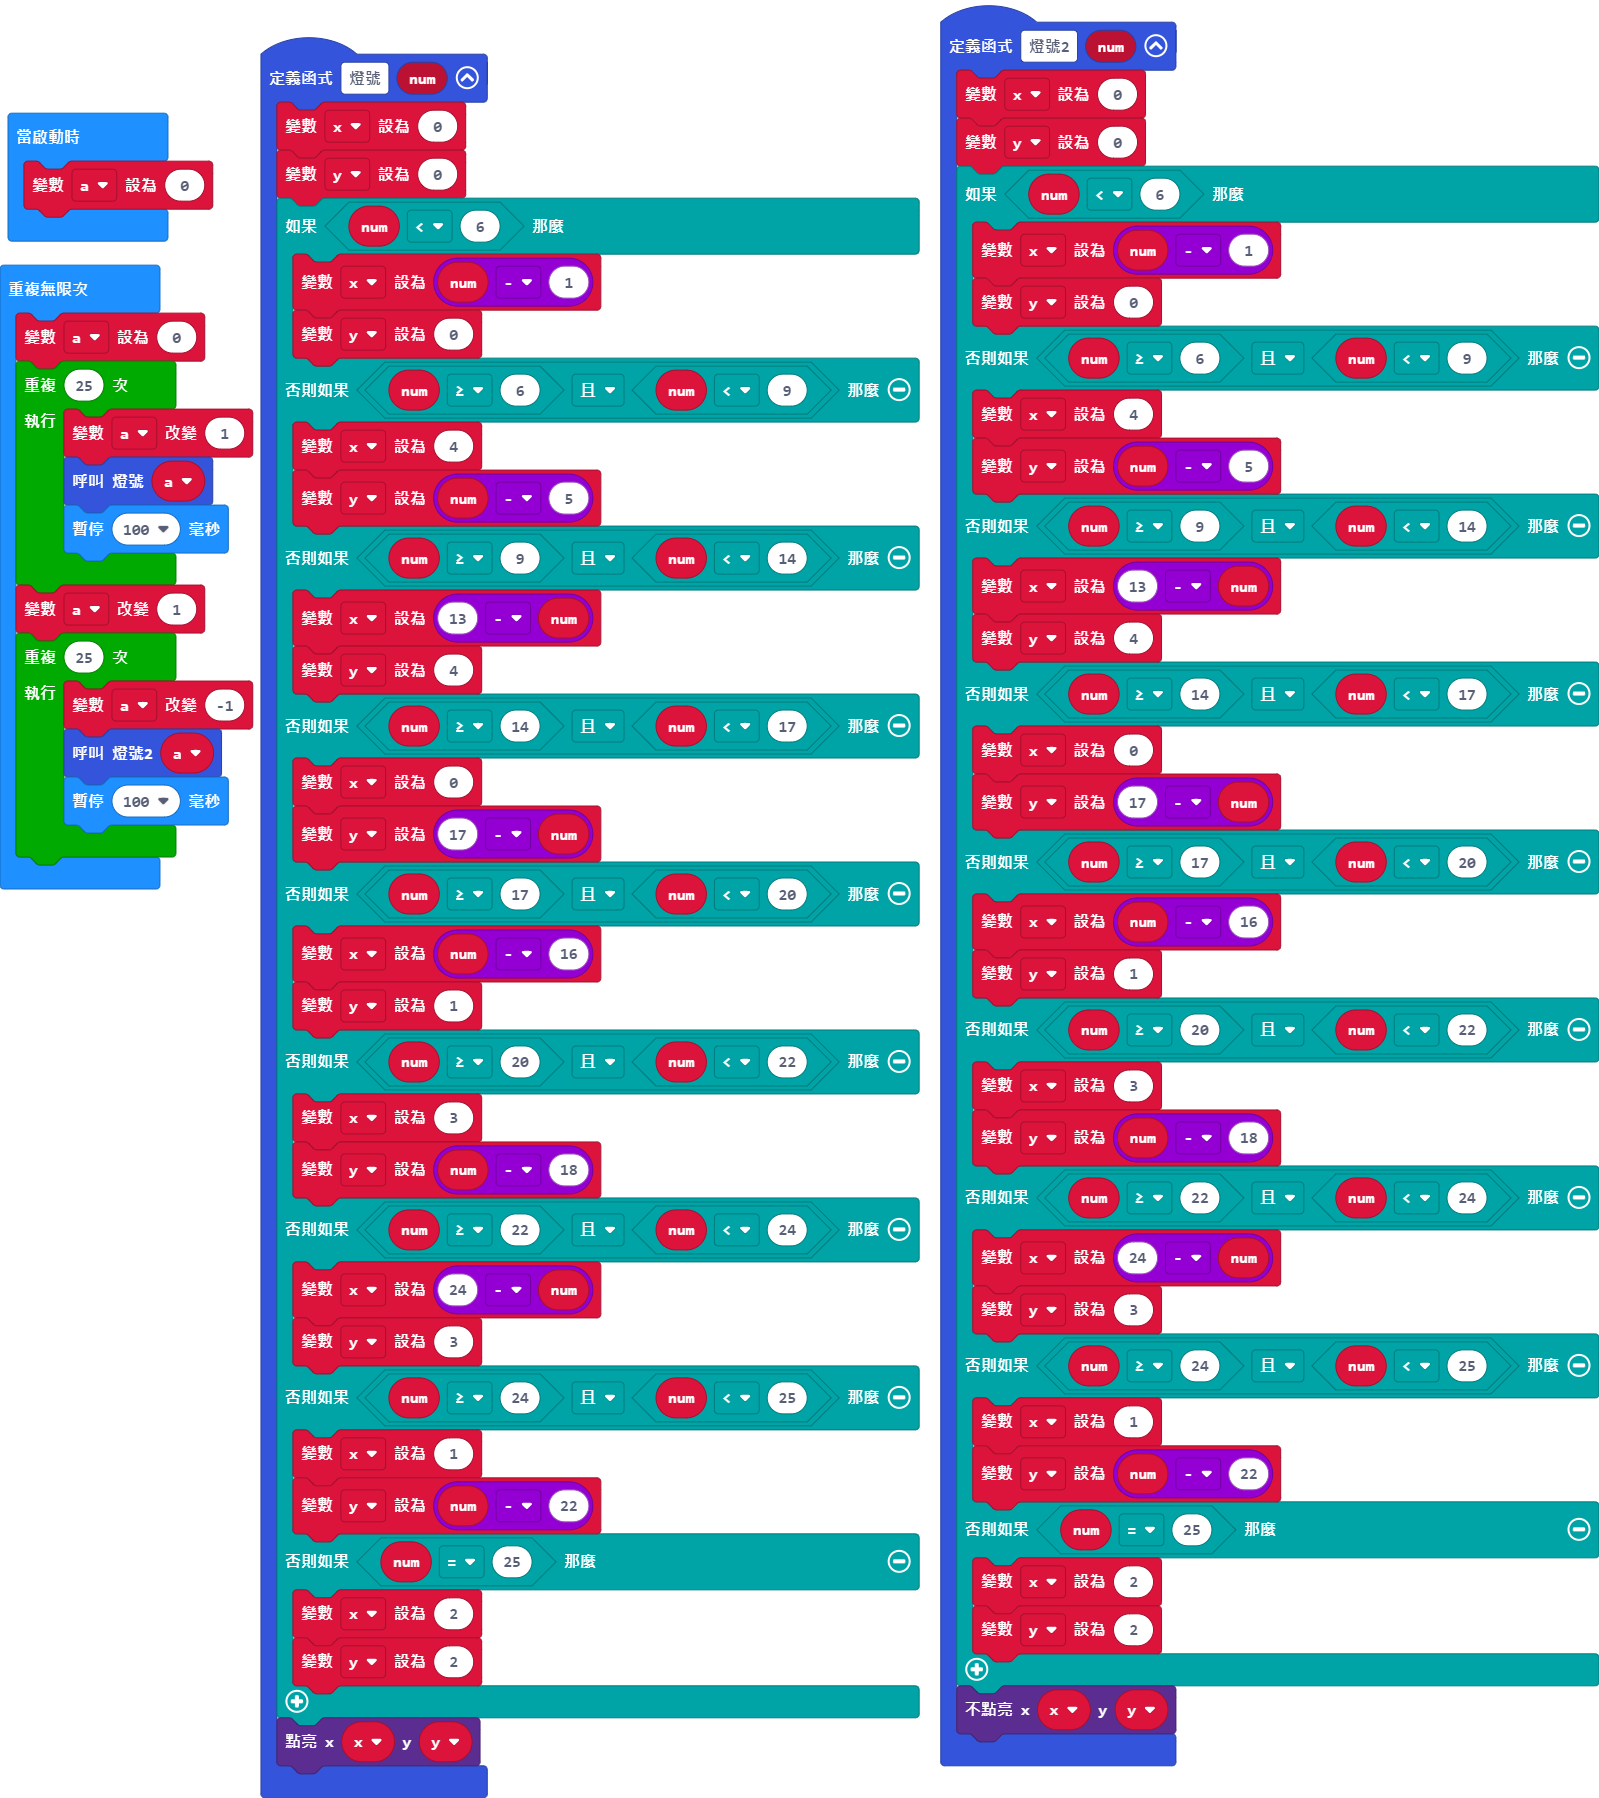
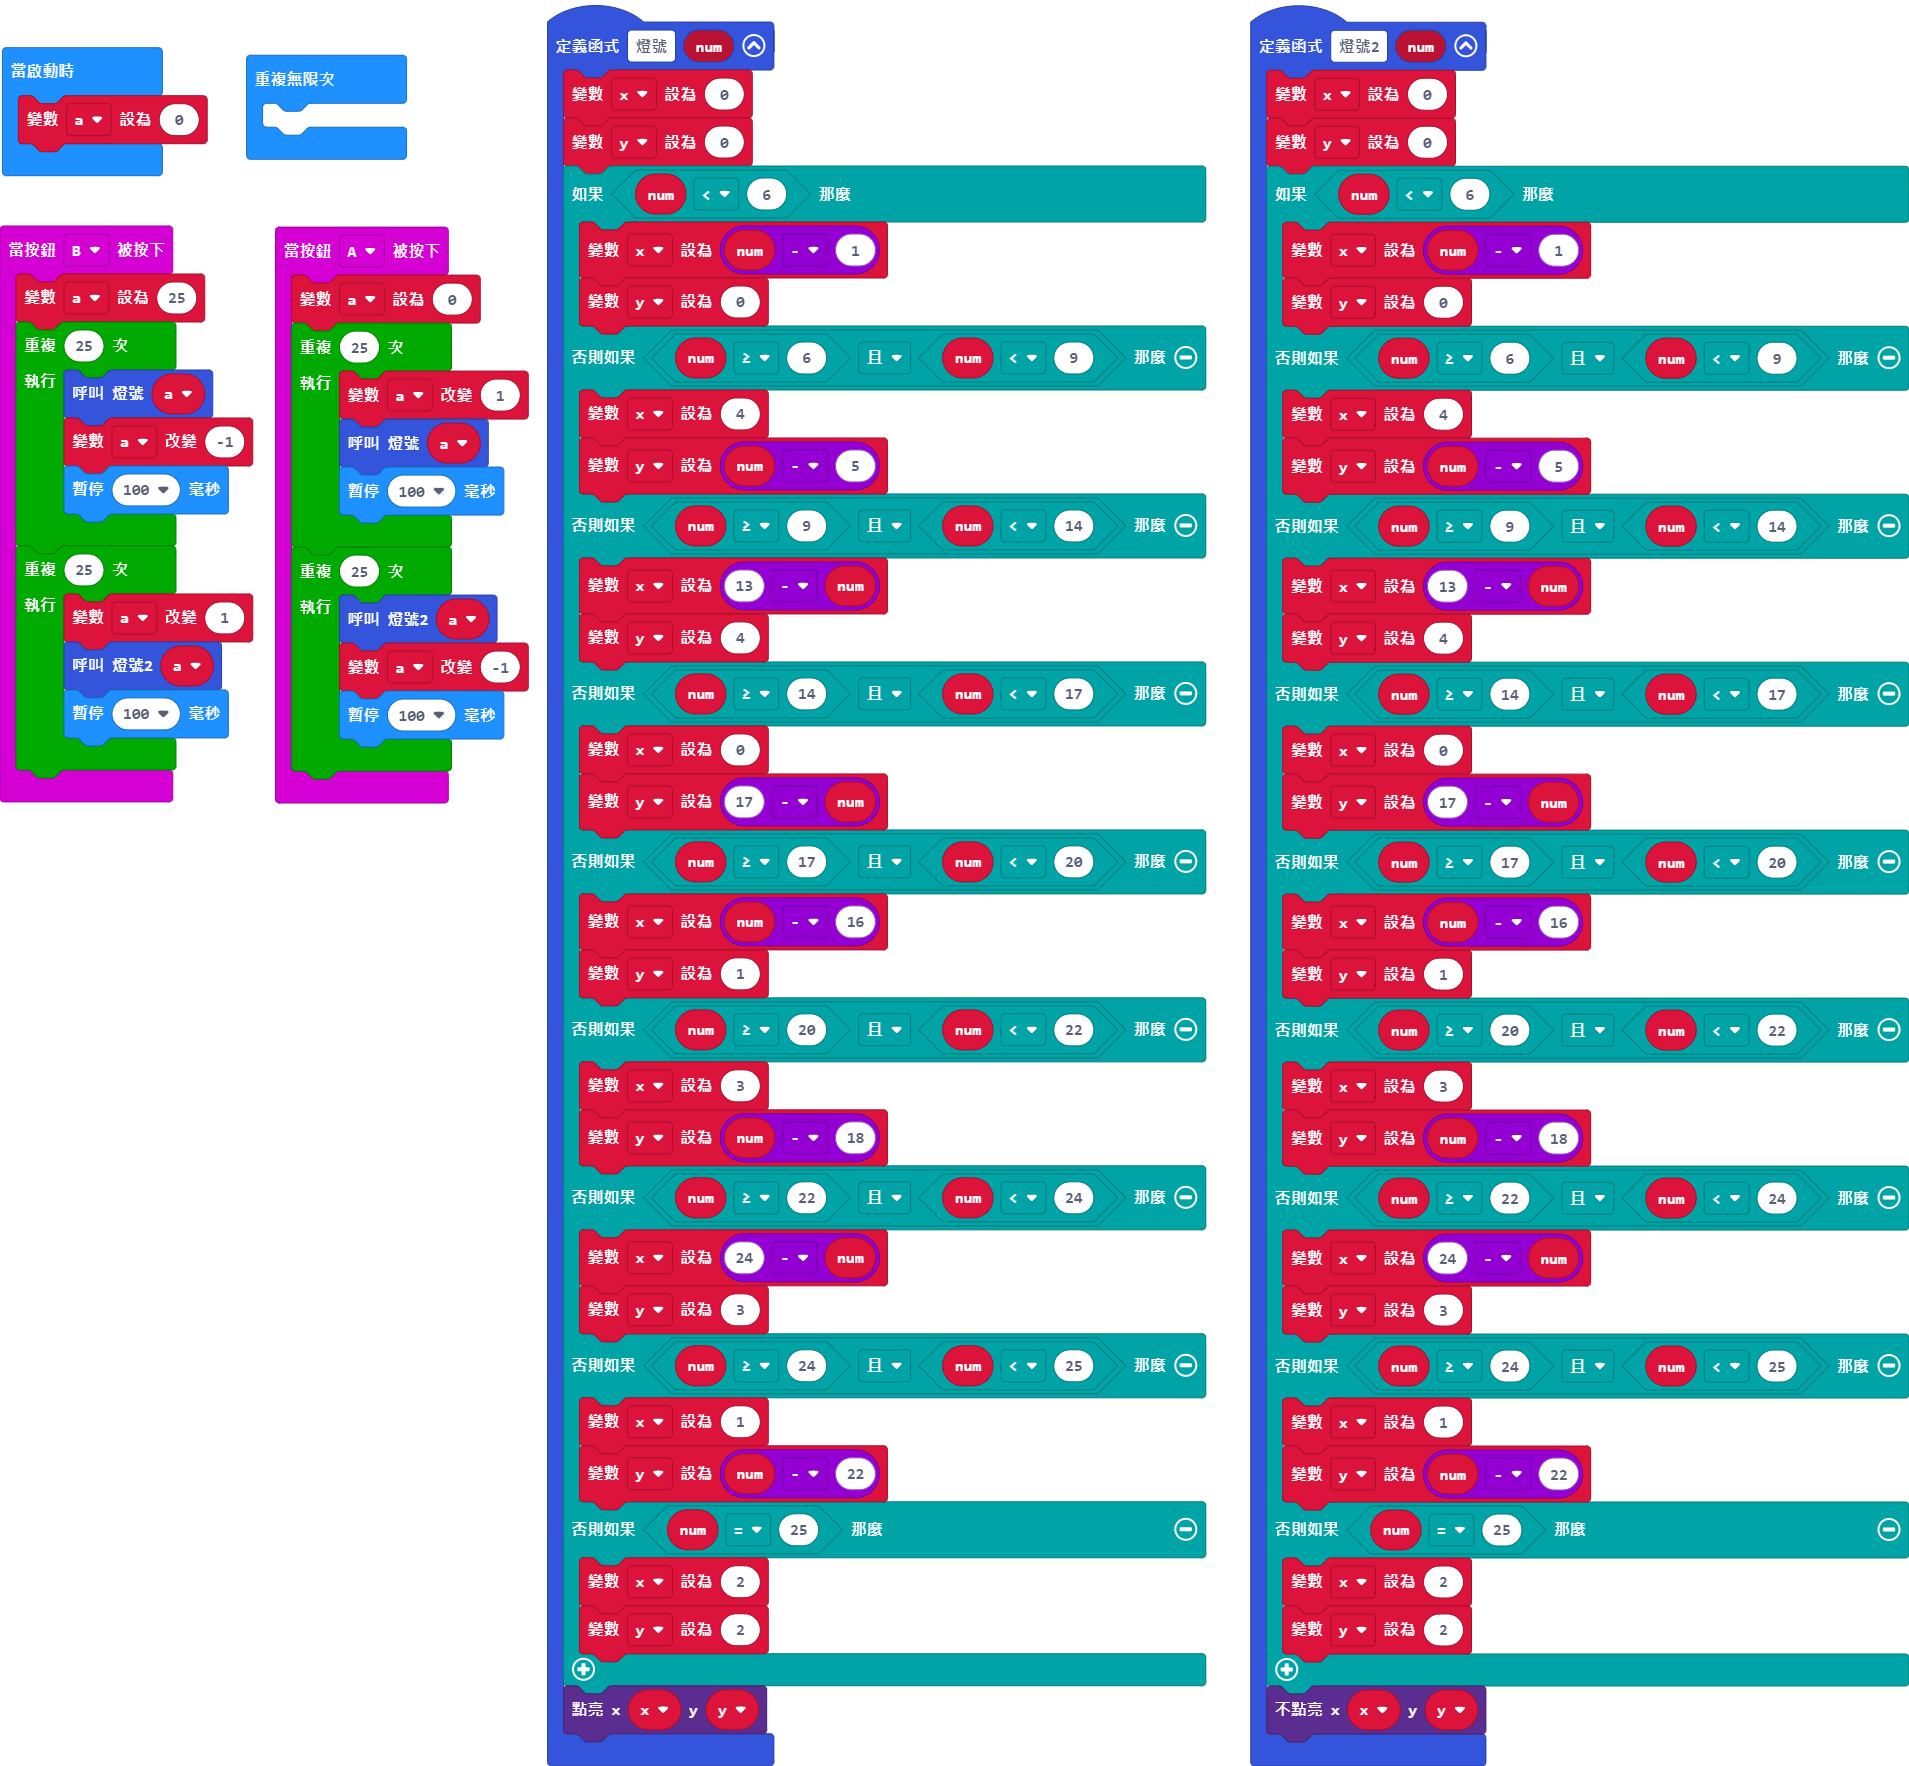
更新 main.blocks, main.ts

diff --git a/main.ts b/main.ts
@@ -31,6 +31,19 @@ function 燈號2 (num: number) {
     }
     led.unplot(x, y)
 }
+input.onButtonPressed(Button.A, function () {
+    a = 0
+    for (let index = 0; index < 25; index++) {
+        a += 1
+        燈號(a)
+        basic.pause(100)
+    }
+    for (let index = 0; index < 25; index++) {
+        燈號2(a)
+        a += -1
+        basic.pause(100)
+    }
+})
 function 燈號 (num: number) {
     x = 0
     y = 0
@@ -64,20 +77,23 @@ function 燈號 (num: number) {
     }
     led.plot(x, y)
 }
-let y = 0
-let x = 0
-let a = 0
-basic.forever(function () {
-    a = 0
+input.onButtonPressed(Button.B, function () {
+    a = 25
     for (let index = 0; index < 25; index++) {
-        a += 1
         燈號(a)
+        a += -1
         basic.pause(100)
     }
-    a += 1
     for (let index = 0; index < 25; index++) {
-        a += -1
+        a += 1
         燈號2(a)
         basic.pause(100)
     }
+})
+let y = 0
+let x = 0
+let a = 0
+a = 0
+basic.forever(function () {
+	
 })
